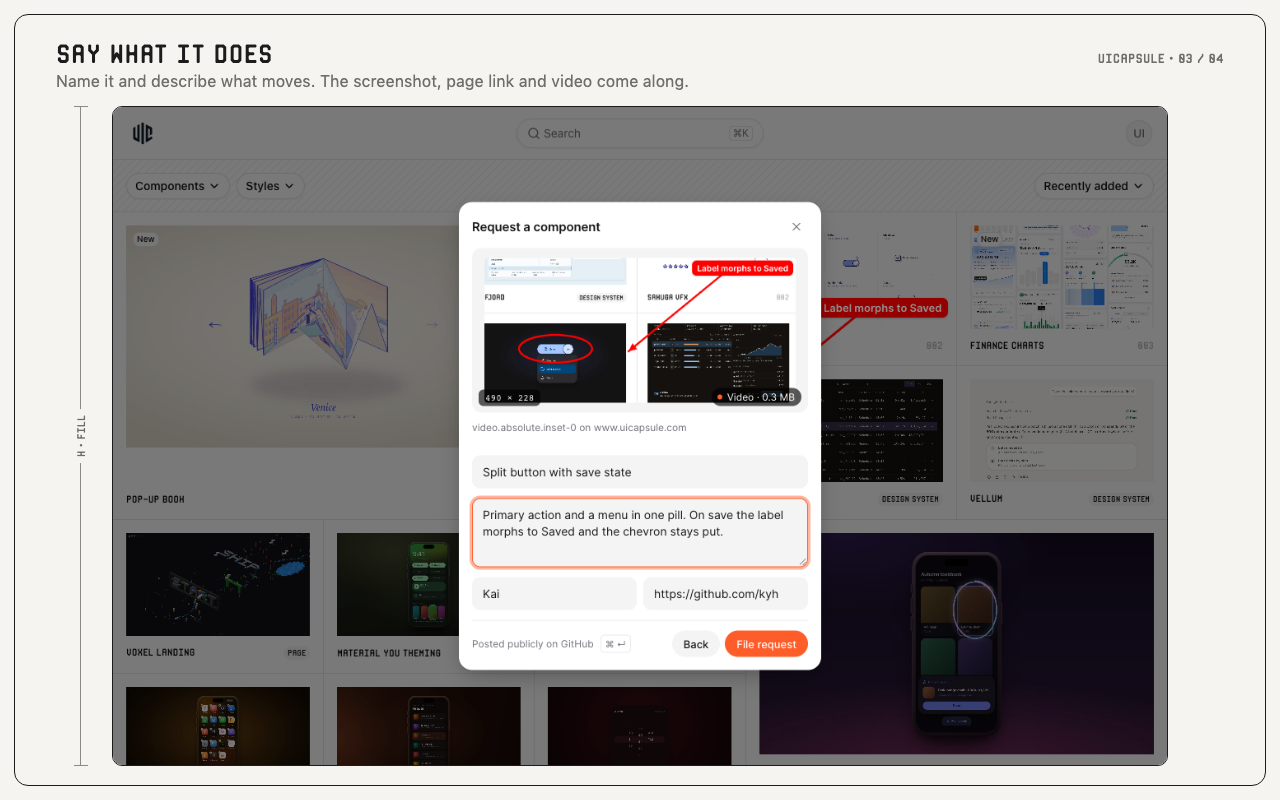
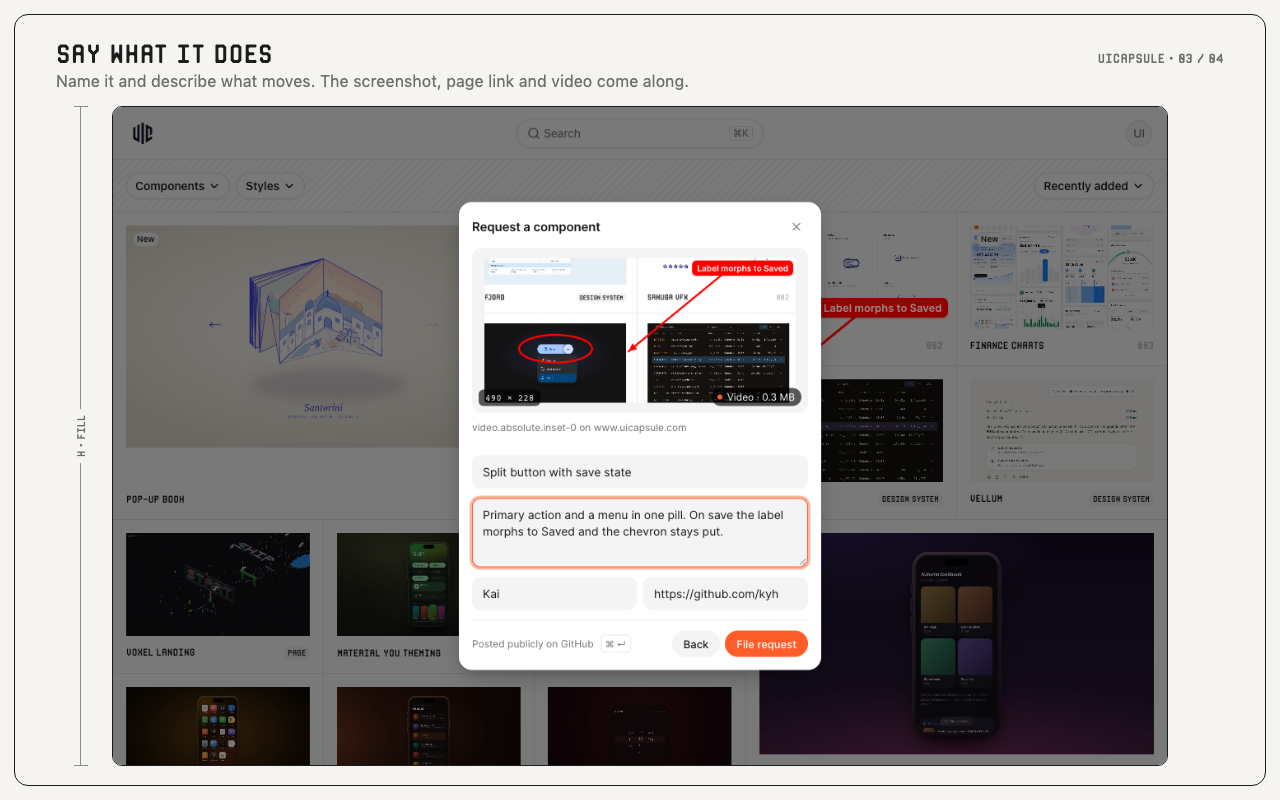
feat(inspector): Mesurer-style inspect bar
Sliding group switch, width-animated tool stage, Mesurer spacing/shadows/tooltips.
Store screenshots regenerated.

diff --git a/packages/inspector/src/styles.ts b/packages/inspector/src/styles.ts
@@ -20,6 +20,15 @@ export const inspectorCss = `
   --uic-shadow: 0 0 0 1px rgb(0 0 0 / 0.06), 0 12px 32px -8px rgb(0 0 0 / 0.28), 0 4px 12px -4px rgb(0 0 0 / 0.12);
   --uic-ease: cubic-bezier(0.22, 1, 0.36, 1);
   --uic-spring: cubic-bezier(0.34, 1.56, 0.64, 1);
+  --uic-focus: #0d99ff;
+  --uic-bar-bg: #ffffff;
+  --uic-bar-fg: #171717;
+  --uic-bar-fg-2: #6d6d6d;
+  --uic-bar-fg-hover: #333333;
+  --uic-bar-hover: rgb(10 10 10 / 0.05);
+  --uic-bar-pressed: rgb(10 10 10 / 0.1);
+  --uic-bar-line: #e6e6e6;
+  --uic-bar-shadow: 0 0 0.4px rgb(0 0 0 / 0.22), 0 0 0 0.5px rgb(0 0 0 / 0.06), 0 1px 3px rgb(0 0 0 / 0.1), 0 3px 8px rgb(0 0 0 / 0.1), 0 10px 15px -3px rgb(0 0 0 / 0.1), 0 4px 6px -4px rgb(0 0 0 / 0.1);
   position: fixed;
   inset: 0;
   z-index: 2147483647;
@@ -39,6 +48,14 @@ export const inspectorCss = `
     --uic-border: rgb(255 255 255 / 0.08);
     --uic-danger: #f87171;
     --uic-shadow: 0 0 0 1px rgb(255 255 255 / 0.08), 0 16px 40px -8px rgb(0 0 0 / 0.6);
+    --uic-bar-bg: #1c1c1f;
+    --uic-bar-fg: #f5f5f5;
+    --uic-bar-fg-2: #a1a1a1;
+    --uic-bar-fg-hover: #e5e5e5;
+    --uic-bar-hover: rgb(255 255 255 / 0.06);
+    --uic-bar-pressed: rgb(255 255 255 / 0.12);
+    --uic-bar-line: rgb(255 255 255 / 0.1);
+    --uic-bar-shadow: 0 0 0 0.5px rgb(255 255 255 / 0.12), 0 3px 8px rgb(0 0 0 / 0.3), 0 10px 15px -3px rgb(0 0 0 / 0.4);
   }
 }
 
@@ -47,28 +64,42 @@ export const inspectorCss = `
 .uic-inspector button { font: inherit; color: inherit; cursor: pointer; border: 0; background: none; padding: 0; margin: 0; }
 .uic-inspector[data-capturing] .uic-chrome { visibility: hidden !important; }
 
-.uic-bar { position: absolute; left: 50%; bottom: 20px; translate: -50% 0; display: flex; align-items: center; gap: 4px; padding: 6px; border-radius: 18px; background: var(--uic-bg); box-shadow: var(--uic-shadow); pointer-events: auto; user-select: none; animation: uic-rise 300ms var(--uic-ease) both; }
-.uic-group { display: flex; min-width: 0; margin: 0; padding: 0; border: 0; align-items: center; gap: 2px; }
-.uic-divider { width: 1px; align-self: stretch; margin: 4px 4px; background: var(--uic-border); }
+.uic-bar { --uic-bar-ease: cubic-bezier(0.23, 1, 0.32, 1); position: absolute; left: 50%; bottom: 20px; translate: -50% 0; display: flex; align-items: stretch; height: 40px; padding: 4px; border-radius: 12px; background: var(--uic-bar-bg); box-shadow: var(--uic-bar-shadow); pointer-events: auto; user-select: none; animation: uic-bar-in 200ms var(--uic-bar-ease) 40ms both; }
+.uic-group { display: flex; min-width: 0; margin: 0; padding: 0 4px; border: 0; align-items: center; gap: 4px; }
+.uic-divider { flex: none; width: 1px; margin: -4px 0; background: var(--uic-bar-line); }
 
-.uic-tool { position: relative; display: grid; place-items: center; width: 36px; height: 36px; border-radius: 11px; color: var(--uic-fg-2); transition: background 150ms ease-out, color 150ms ease-out, scale 150ms var(--uic-ease); }
-.uic-tool svg { width: 19px; height: 19px; stroke-width: 1.6; }
-.uic-tool:hover { background: var(--uic-bg-2); color: var(--uic-fg); }
-.uic-tool:active { scale: 0.94; }
-.uic-tool[aria-pressed="true"] { background: var(--uic-bg-2); color: var(--uic-fg); }
-.uic-tool:focus-visible { outline: 2px solid var(--uic-accent); outline-offset: 1px; }
+.uic-tool, .uic-switch-option { position: relative; display: grid; place-items: center; flex: none; color: var(--uic-bar-fg-2); }
+.uic-tool { width: 32px; height: 32px; border-radius: 8px; }
+.uic-tool svg { width: 18px; height: 18px; stroke-width: 1.5; }
+.uic-tool:hover { background: var(--uic-bar-hover); color: var(--uic-bar-fg-hover); }
+.uic-tool[aria-pressed="true"] { background: var(--uic-bar-pressed); color: var(--uic-bar-fg); }
+.uic-tool:focus-visible, .uic-switch-option:focus-visible, .uic-action:focus-visible { outline: 2px solid var(--uic-focus); outline-offset: -2px; }
 .uic-tool:disabled { opacity: 0.4; pointer-events: none; }
 
-.uic-tip { position: absolute; bottom: calc(100% + 10px); left: 50%; translate: -50% 4px; display: flex; align-items: center; gap: 6px; padding: 4px 8px; border-radius: 8px; background: var(--uic-fg); color: var(--uic-bg); font-size: 12px; line-height: 16px; font-weight: 500; white-space: nowrap; opacity: 0; pointer-events: none; transition: opacity 120ms ease-out, translate 120ms var(--uic-ease); }
-.uic-tip kbd { font: inherit; opacity: 0.6; }
-.uic-tool:hover .uic-tip, .uic-tool:focus-visible .uic-tip, .uic-action:hover .uic-tip, .uic-action:focus-visible .uic-tip { opacity: 1; translate: -50% 0; transition-delay: 350ms; }
+.uic-switch { position: relative; display: flex; align-items: center; flex: none; gap: 2px; margin: 0 4px 0 0; padding: 2px; border: 0; border-radius: 8px; }
+.uic-switch-pill { position: absolute; top: 2px; left: 2px; width: 28px; height: 28px; border-radius: 6px; background: var(--uic-bar-pressed); transition: translate 200ms ease; }
+.uic-switch-option { z-index: 1; width: 28px; height: 28px; border-radius: 6px; }
+.uic-switch-option svg { width: 18px; height: 18px; stroke-width: 1.5; }
+.uic-switch-option:hover { color: var(--uic-bar-fg-hover); }
+.uic-switch-option[aria-pressed="true"] { color: var(--uic-bar-fg); }
 
-.uic-action { position: relative; display: inline-flex; align-items: center; gap: 6px; height: 36px; padding: 0 14px; border-radius: 11px; background: var(--uic-accent); color: #fff; font-weight: 500; font-size: 13px; transition: background 150ms ease-out, scale 150ms var(--uic-ease); }
-.uic-action:hover { background: var(--uic-accent-hover); }
-.uic-action:active { scale: 0.97; }
-.uic-action:focus-visible { outline: 2px solid var(--uic-accent); outline-offset: 2px; }
-.uic-action:disabled { opacity: 0.55; pointer-events: none; }
-.uic-action svg { width: 16px; height: 16px; }
+.uic-stage { flex: none; min-width: 0; }
+.uic-stage[data-moving] { overflow: hidden; }
+.uic-stage:not([data-moving]) .uic-panel:not([data-open]) { visibility: hidden; }
+.uic-stage[data-ready] { transition: width 200ms ease; }
+.uic-track { display: flex; height: 100%; }
+.uic-stage[data-ready] .uic-track { transition: translate 200ms ease; }
+.uic-panel { display: flex; flex: none; }
+.uic-panel > .uic-group { width: max-content; }
+
+.uic-tip { position: absolute; bottom: calc(100% + 12px); left: 50%; translate: -50% 0; display: flex; align-items: center; gap: 8px; padding: 4px 4px 4px 10px; border-radius: 8px; background: #000; color: #fff; font-size: 12px; line-height: 20px; font-weight: 400; white-space: nowrap; opacity: 0; pointer-events: none; transition: opacity 150ms cubic-bezier(0.4, 0, 0.2, 1); }
+.uic-tip kbd { display: grid; place-items: center; min-width: 20px; height: 20px; padding: 0 5px; border-radius: 5px; background: rgb(255 255 255 / 0.18); color: rgb(255 255 255 / 0.8); font: inherit; font-size: 11px; }
+.uic-tool:hover .uic-tip, .uic-tool:focus-visible .uic-tip, .uic-switch-option:hover .uic-tip, .uic-switch-option:focus-visible .uic-tip, .uic-action:hover .uic-tip, .uic-action:focus-visible .uic-tip { opacity: 1; }
+
+.uic-bar .uic-action { position: relative; display: inline-flex; align-items: center; flex: none; gap: 6px; height: 32px; padding: 0 12px 0 10px; border-radius: 8px; background: var(--uic-bar-fg); color: var(--uic-bar-bg); font-size: 13px; font-weight: 500; line-height: 1; }
+.uic-bar .uic-action:hover { background: var(--uic-bar-fg-hover); }
+.uic-bar .uic-action:disabled { opacity: 0.55; pointer-events: none; }
+.uic-bar .uic-action svg { width: 16px; height: 16px; stroke-width: 2; }
 
 .uic-surface { position: absolute; inset: 0; overflow: hidden; pointer-events: none; user-select: none; touch-action: none; }
 .uic-surface[data-active] { pointer-events: auto; cursor: crosshair; }
@@ -120,7 +151,7 @@ export const inspectorCss = `
 .uic-note-input::placeholder { color: rgb(255 255 255 / 0.7); }
 
 @keyframes uic-pop { from { scale: 0; } }
-@keyframes uic-rise { from { opacity: 0; filter: blur(2px); translate: -50% 8px; } }
+@keyframes uic-bar-in { from { opacity: 0; translate: -50% 8px; scale: 0.96; } }
 @keyframes uic-drop { from { opacity: 0; filter: blur(3px); translate: -50% -12px; } }
 
 @media (prefers-reduced-motion: reduce) {

diff --git a/apps/extension/src/lib/overlay/capture-bar.tsx b/apps/extension/src/lib/overlay/capture-bar.tsx
@@ -5,7 +5,10 @@ import {
   InspectBar,
   ToolButton,
   ToolGroup,
+  ToolStage,
+  ToolSwitch,
 } from "@repo/inspector/inspect-bar";
+import type { SwitchOption } from "@repo/inspector/inspect-bar";
 import {
   ArrowUp,
   Fullscreen,
@@ -35,6 +38,11 @@ const ANNOTATE_TOOLS = [
   { icon: <Type />, label: "Text", tool: "text" },
 ] satisfies { icon: ReactNode; label: string; tool: AnnotationTool }[];
 
+const GROUPS: SwitchOption<"annotate" | "capture">[] = [
+  { icon: <Scan />, label: "Capture", shortcut: "1", value: "capture" },
+  { icon: <Signature />, label: "Annotate", shortcut: "2", value: "annotate" },
+];
+
 /**
  * The inspect bar the extension shows: a switch between the capture and annotate tools, that
  * group's tools, then Request, Settings and Close.
@@ -62,62 +70,60 @@ export const CaptureBar = ({
 
   return (
     <InspectBar label="UICapsule">
-      <ToolGroup label="Tool group">
-        <ToolButton
-          icon={<Scan />}
-          label="Capture"
-          pressed={capturing}
-          shortcut="1"
-          onPress={() => {
-            onGroup("capture");
-          }}
-        />
-        <ToolButton
-          icon={<Signature />}
-          label="Annotate"
-          pressed={!capturing}
-          shortcut="2"
-          onPress={() => {
-            onGroup("annotate");
-          }}
-        />
-      </ToolGroup>
+      <ToolSwitch
+        label="Tool group"
+        options={GROUPS}
+        value={capturing ? "capture" : "annotate"}
+        onChange={onGroup}
+      />
       <BarDivider />
-      {capturing ? (
-        <ToolGroup label="Capture">
-          <ToolButton
-            icon={<SquareDashedMousePointer />}
-            label="Inspect"
-            pressed={!visible}
-            shortcut="I"
-            onPress={() => {
-              onTool("inspect");
-            }}
-          />
-          <ToolButton
-            icon={<Fullscreen />}
-            label="Visible area"
-            pressed={visible}
-            shortcut="V"
-            onPress={onVisible}
-          />
-        </ToolGroup>
-      ) : (
-        <ToolGroup label="Annotate">
-          {ANNOTATE_TOOLS.map((entry) => (
-            <ToolButton
-              key={entry.tool}
-              icon={entry.icon}
-              label={entry.label}
-              pressed={tool === entry.tool}
-              shortcut={toolKey(entry.tool)}
-              onPress={() => {
-                onTool(entry.tool);
-              }}
-            />
-          ))}
-        </ToolGroup>
-      )}
+      <ToolStage
+        open={capturing ? "capture" : "annotate"}
+        panels={[
+          {
+            content: (
+              <ToolGroup label="Capture">
+                <ToolButton
+                  icon={<SquareDashedMousePointer />}
+                  label="Inspect"
+                  pressed={capturing && !visible}
+                  shortcut="I"
+                  onPress={() => {
+                    onTool("inspect");
+                  }}
+                />
+                <ToolButton
+                  icon={<Fullscreen />}
+                  label="Visible area"
+                  pressed={capturing && visible}
+                  shortcut="V"
+                  onPress={onVisible}
+                />
+              </ToolGroup>
+            ),
+            value: "capture",
+          },
+          {
+            content: (
+              <ToolGroup label="Annotate">
+                {ANNOTATE_TOOLS.map((entry) => (
+                  <ToolButton
+                    key={entry.tool}
+                    icon={entry.icon}
+                    label={entry.label}
+                    pressed={tool === entry.tool}
+                    shortcut={toolKey(entry.tool)}
+                    onPress={() => {
+                      onTool(entry.tool);
+                    }}
+                  />
+                ))}
+              </ToolGroup>
+            ),
+            value: "annotate",
+          },
+        ]}
+      />
       <BarDivider />
       <ToolGroup label="Request and settings">
         <BarAction

diff --git a/packages/inspector/src/inspect-bar.tsx b/packages/inspector/src/inspect-bar.tsx
@@ -1,3 +1,4 @@
+import { useCallback, useState } from "react";
 import type { ReactNode } from "react";
 
 const Tip = ({ label, shortcut }: { label: string; shortcut?: string }) => (
@@ -51,6 +52,136 @@ export const ToolButton = ({
     <Tip label={label} shortcut={shortcut} />
   </button>
 );
+
+/** One choice in a `ToolSwitch`. */
+export interface SwitchOption<T extends string> {
+  icon: ReactNode;
+  label: string;
+  shortcut?: string;
+  value: T;
+}
+
+/** A segmented switch between tool groups; a pill slides under the chosen one. */
+export const ToolSwitch = <T extends string>({
+  label,
+  onChange,
+  options,
+  value,
+}: {
+  label: string;
+  onChange: (value: T) => void;
+  options: SwitchOption<T>[];
+  value: T;
+}) => {
+  const index = Math.max(
+    0,
+    options.findIndex((option) => option.value === value),
+  );
+
+  return (
+    <fieldset aria-label={label} className="uic-switch">
+      <span aria-hidden className="uic-switch-pill" style={{ translate: `${index * 30}px 0` }} />
+      {options.map((option) => (
+        <button
+          key={option.value}
+          aria-label={
+            option.shortcut === undefined ? option.label : `${option.label} (${option.shortcut})`
+          }
+          aria-pressed={option.value === value}
+          className="uic-switch-option"
+          type="button"
+          onClick={() => {
+            onChange(option.value);
+          }}
+        >
+          {option.icon}
+          <Tip label={option.label} shortcut={option.shortcut} />
+        </button>
+      ))}
+    </fieldset>
+  );
+};
+
+/** One group of tools in a `ToolStage`. */
+export interface StagePanel<T extends string> {
+  content: ReactNode;
+  value: T;
+}
+
+/**
+ * Shows one panel of tools at a time. Every panel stays mounted side by side on a track; the
+ * stage resizes to the open panel and the track slides it into view, so switching groups glides
+ * instead of jumping. The stage clips only while it slides, so tooltips can overhang it at rest.
+ */
+export const ToolStage = <T extends string>({
+  open,
+  panels,
+}: {
+  open: T;
+  panels: StagePanel<T>[];
+}) => {
+  const [widths, setWidths] = useState<number[]>([]);
+  const [shown, setShown] = useState(open);
+  const [moving, setMoving] = useState(false);
+
+  if (shown !== open) {
+    setShown(open);
+    setMoving(true);
+  }
+
+  const observeTrack = useCallback((track: HTMLDivElement) => {
+    const measure = () => {
+      setWidths([...track.children].map((panel) => panel.getBoundingClientRect().width));
+    };
+
+    const observer = new ResizeObserver(measure);
+
+    for (const panel of track.children) {
+      observer.observe(panel);
+    }
+
+    measure();
+
+    return () => {
+      observer.disconnect();
+    };
+  }, []);
+
+  const index = panels.findIndex((panel) => panel.value === open);
+  const offset = widths.slice(0, index).reduce((sum, width) => sum + width, 0);
+  const width = widths[index];
+
+  return (
+    <div
+      className="uic-stage"
+      data-moving={moving ? "" : undefined}
+      data-ready={width === undefined ? undefined : ""}
+      style={width === undefined ? undefined : { width }}
+    >
+      <div
+        ref={observeTrack}
+        className="uic-track"
+        style={{ translate: `${-offset}px 0` }}
+        onTransitionEnd={(event) => {
+          if (event.target === event.currentTarget) {
+            setMoving(false);
+          }
+        }}
+      >
+        {panels.map((panel) => (
+          <div
+            key={panel.value}
+            className="uic-panel"
+            data-open={panel.value === open ? "" : undefined}
+            inert={panel.value !== open}
+          >
+            {panel.content}
+          </div>
+        ))}
+      </div>
+    </div>
+  );
+};
 
 /** The bar's one labelled button: what the host does with the selection. */
 export const BarAction = ({
